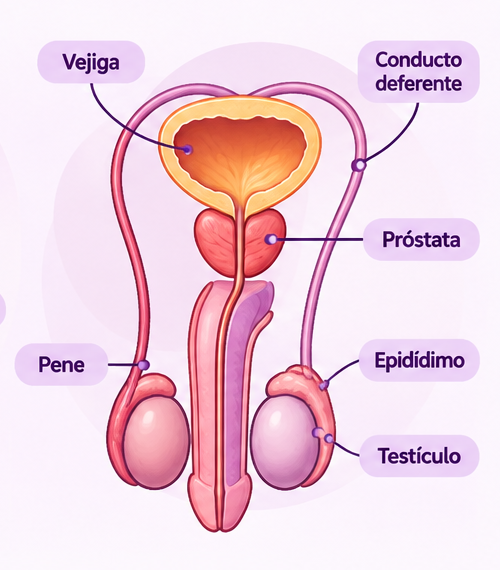
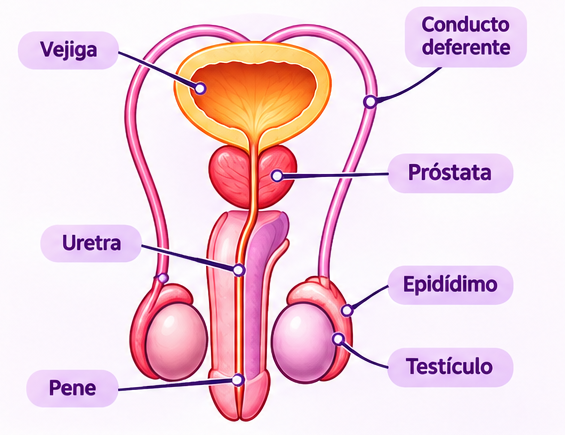
Add files via upload

diff --git a/src/App.jsx b/src/App.jsx
@@ -37,11 +37,13 @@ function V3Features({page,go}){
  const [checked,setChecked]=React.useState([]);
  const [notes,setNotes]=React.useState('');
  const [media,setMedia]=React.useState('derechos');
- const [playing,setPlaying]=React.useState(false);
+ const [playing,setPlaying]=React.useState(false);\n const [paused,setPaused]=React.useState(false);
  const [body,setBody]=React.useState('general');
  const [bodyPart,setBodyPart]=React.useState('cuerpo');
- const speak=(text)=>{if(!('speechSynthesis'in window)){alert('Tu navegador no permite lectura en voz alta.');return;}window.speechSynthesis.cancel();const u=new SpeechSynthesisUtterance(text);u.lang='es-CO';u.rate=.9;u.onend=()=>setPlaying(false);u.onerror=()=>setPlaying(false);window.speechSynthesis.speak(u);setPlaying(true);};
- const stop=()=>{if('speechSynthesis'in window)window.speechSynthesis.cancel();setPlaying(false);};
+ const speak=(text)=>{if(!('speechSynthesis'in window)){alert('Tu navegador no permite lectura en voz alta.');return;}window.speechSynthesis.cancel();const u=new SpeechSynthesisUtterance(text);u.lang='es-CO';u.rate=.9;u.onend=()=>{setPlaying(false);setPaused(false);};u.onerror=()=>{setPlaying(false);setPaused(false);};window.speechSynthesis.speak(u);setPlaying(true);setPaused(false);};
+ const stop=()=>{if('speechSynthesis'in window)window.speechSynthesis.cancel();setPlaying(false);setPaused(false);};
+ const readCurrentSection=()=>{const node=document.querySelector('.v3-page');const text=node?.innerText?.replace(/← Volver al inicio/g,'').replace(/LECTURA ASISTIDA[\s\S]*/,'').trim();if(text)speak(text);};
+ const pauseOrResume=()=>{if(!('speechSynthesis'in window))return;const synth=window.speechSynthesis;if(synth.speaking&&!synth.paused){synth.pause();setPlaying(false);setPaused(true);}else if(synth.paused){synth.resume();setPlaying(true);setPaused(false);}};
  const heading={ruta:'Ruta de aprendizaje personalizada',simulador:'Simulador de situaciones reales',biblioteca:'Biblioteca visual del cuerpo humano',consulta:'Guía de consultas médicas accesibles',multimedia:'Centro multimedia accesible'}[page];
  const intro={ruta:'Elige qué quieres aprender y cómo prefieres comenzar. La ruta es flexible: puedes cambiarla cuando quieras.',simulador:'Practica decisiones posibles en situaciones cotidianas. No es un examen: cada respuesta incluye una explicación.',biblioteca:'Explora información general sobre el cuerpo, el autocuidado y la salud sexual. Cada cuerpo es distinto.',consulta:'Prepara tu próxima consulta para que puedas participar en las decisiones y recibir información comprensible.',multimedia:'Aprende con textos breves y lectura en voz alta. Los materiales audiovisuales se irán incorporando con subtítulos y transcripciones.'}[page];
  const topics=[{id:'derechos',name:'Mis derechos e información',desc:'Conocer qué puedes solicitar y cómo ejercer tu derecho a la información.'},{id:'cuerpo',name:'Conocer mi cuerpo y autocuidado',desc:'Explorar anatomía, cambios corporales y bienestar.'},{id:'autonomia',name:'Autonomía y consentimiento',desc:'Reconocer decisiones, límites y consentimiento.'},{id:'relaciones',name:'Relaciones y afectividad',desc:'Fortalecer comunicación, vínculos y respeto.'},{id:'salud',name:'Preparar una consulta de salud',desc:'Organizar preguntas y solicitar ajustes de accesibilidad.'}];
@@ -53,6 +55,7 @@ function V3Features({page,go}){
  const toggle=(v)=>setChecked(old=>old.includes(v)?old.filter(x=>x!==v):[...old,v]);
  const copyPlan=()=>{const text=`Para mi próxima consulta:\n${checked.map(x=>'• '+x).join('\n')}\nPreguntas o necesidades: ${notes}`;if(navigator.clipboard?.writeText)navigator.clipboard.writeText(text).then(()=>alert('Lista copiada.')).catch(()=>alert(text));else alert(text);};
  return <section className="page v3-page"><button className="back" onClick={()=>go('inicio')}>← Volver al inicio</button><div className="pagehead"><small>VERSIÓN 3.0 · APRENDIZAJE ACCESIBLE</small><h1>{heading}</h1><p>{intro}</p></div>
+ {page!=='ruta'&&<div className="listen v3-listen" aria-label="Lectura asistida"><button type="button" onClick={readCurrentSection}>🔊 Escuchar contenido</button><button type="button" onClick={pauseOrResume}>{paused?'▶ Reanudar':'Ⅱ Pausar'}</button><button type="button" onClick={stop}>■ Detener</button></div>}
  {page==='ruta'&&<div className="lesson"><h2>1. ¿Qué te interesa aprender primero?</h2><div className="v3-options">{topics.map(t=><label key={t.id} className={goal===t.id?'selected':''}><input type="radio" name="goal" checked={goal===t.id} onChange={()=>{setGoal(t.id);setStarted(false)}}/><span><b>{t.name}</b><small>{t.desc}</small></span></label>)}</div><h2>2. ¿Cómo prefieres comenzar?</h2><div className="v3-options">{[['inicial','Quiero empezar desde lo básico'],['refuerzo','Ya conozco el tema y quiero profundizar']].map(([v,l])=><label className={level===v?'selected':''} key={v}><input type="radio" name="level" checked={level===v} onChange={()=>{setLevel(v);setStarted(false)}}/><b>{l}</b></label>)}</div><button className="primary" onClick={()=>setStarted(true)}>Crear mi ruta →</button>{started&&<div className="v3-result"><small>TU RECORRIDO SUGERIDO</small><h2>{topics.find(t=>t.id===goal).name}</h2><ol>{(level==='inicial'?['Empieza por una explicación clara y breve.','Explora el módulo relacionado.','Practica con una situación cotidiana.','Revisa la evaluación y guarda tus aprendizajes.']:['Repasa los conceptos principales.','Resuelve una situación práctica.','Consulta la guía o el material complementario.','Comprueba tus conocimientos.']).map(x=><li>{x}</li>)}</ol><p>Esta ruta es una recomendación educativa, no una valoración clínica. Puedes cambiar de tema en cualquier momento.</p><button className="primary" onClick={()=>go(goal==='salud'?'consulta':goal)}>Comenzar mi recorrido <span>→</span></button></div>}</div>}
  {page==='simulador'&&<article className="scenario"><div className="scenario-title"><span>CASO {scenarioIndex+1} DE {scenarios.length}</span></div><h2>{s.title}</h2><p>{s.context}</p><h3>{s.q}</h3><div className="choices">{s.opts.map((o,i)=><label className={scenarioReveal&&i===s.correct?'chosen':''} key={i}><input type="radio" name="v3scenario" checked={scenarioChoice[scenarioIndex]===i} disabled={scenarioReveal} onChange={()=>setScenarioChoice({...scenarioChoice,[scenarioIndex]:i})}/>{o}</label>)}</div>{!scenarioReveal?<button className="primary" disabled={scenarioChoice[scenarioIndex]===undefined} onClick={()=>setScenarioReveal(true)}>Revisar mi decisión</button>:<div className="explain"><b>{scenarioChoice[scenarioIndex]===s.correct?'Esta opción promueve la autonomía.':'Veamos una alternativa respetuosa.'}</b><p>{s.why}</p><button onClick={()=>{setScenarioIndex((scenarioIndex+1)%scenarios.length);setScenarioReveal(false)}}>{scenarioIndex===scenarios.length-1?'Volver al primer caso':'Siguiente situación'} →</button></div>}</article>}
  {page==='biblioteca'&&<>
@@ -61,9 +64,7 @@ function V3Features({page,go}){
   <div className="visual-intro"><div className="visual-symbol" aria-hidden="true">{body==='anatomia'?'✳':body==='autocuidado'?'♡':body==='salud'?'⚕':'◉'}</div><div><small>EXPLORACIÓN VISUAL</small><h2>{({general:'Conoce tu cuerpo y sus sistemas',anatomia:'Explora la anatomía reproductiva',autocuidado:'Cuidar el cuerpo también es autonomía',salud:'Conoce tu salud sexual'})[body]}</h2><p>{({general:'Una vista general de la anatomía y la diversidad corporal.',anatomia:'Selecciona un sistema para consultar sus estructuras y funciones.',autocuidado:'Selecciona cada tema para conocer recomendaciones de autocuidado adaptables.',salud:'Selecciona un tema para conocer información sobre prevención y decisiones informadas.'})[body]}</p></div></div>
   {body==='general'&&<>
    <div className="visual-grid anatomy-choice-grid">
-    <button type="button" className={'visual-card '+(bodyPart==='cuerpo'?'chosen':'')} onClick={()=>setBodyPart('cuerpo')}><span className="topic-icon" aria-hidden="true">♙</span><b>Cuerpo general</b><span>Partes principales y funciones</span></button>
-    <button type="button" className={'visual-card '+(bodyPart==='femenino'?'chosen':'')} onClick={()=>setBodyPart('femenino')}><span className="topic-icon" aria-hidden="true">♀</span><b>Sistema reproductor femenino</b><span>Órganos, funciones y cuidados</span></button>
-    <button type="button" className={'visual-card '+(bodyPart==='masculino'?'chosen':'')} onClick={()=>setBodyPart('masculino')}><span className="topic-icon" aria-hidden="true">♂</span><b>Sistema reproductor masculino</b><span>Órganos, funciones y cuidados</span></button>
+    <button type="button" className={'visual-card '+(bodyPart==='cuerpo'?'chosen':'')} onClick={()=>setBodyPart('cuerpo')}><span className="topic-icon" aria-hidden="true">♙</span><b>Cuerpo general</b><span>Partes principales, funciones y diversidad corporal</span></button>
    </div>
    <article className="topic-detail anatomy-detail">
     <h3>{({cuerpo:'Cuerpo general',femenino:'Sistema reproductor femenino',masculino:'Sistema reproductor masculino'})[bodyPart]||'Cuerpo general'}</h3>

diff --git a/README.md b/README.md
@@ -26,3 +26,9 @@ La información es educativa y no sustituye una consulta individual con profesio
 - Se separaron las ilustraciones de cuerpo general, sistema reproductor femenino y sistema reproductor masculino en archivos PNG independientes dentro de `public/`.
 - En Vista general y Anatomía, cada ilustración tiene una tarjeta seleccionable y muestra su propia imagen y explicación.
 - Se mantiene la navegación y el contenido de Autocuidado y Salud sexual.
+
+
+## Correcciones v3.6
+- Vista general muestra únicamente el cuerpo general; los sistemas reproductores se consultan en Anatomía.
+- Ilustración masculina actualizada: las etiquetas de pene y uretra señalan estructuras distintas y el conducto deferente está identificado por separado.
+- Lectura asistida con escuchar, pausar/reanudar y detener en Simulador, Biblioteca, Guía de consulta y Centro multimedia.
